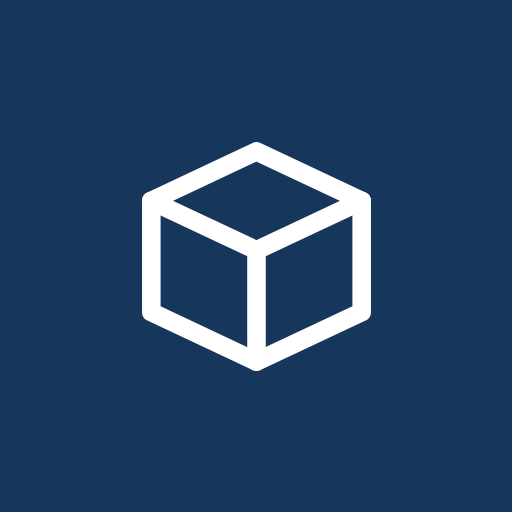
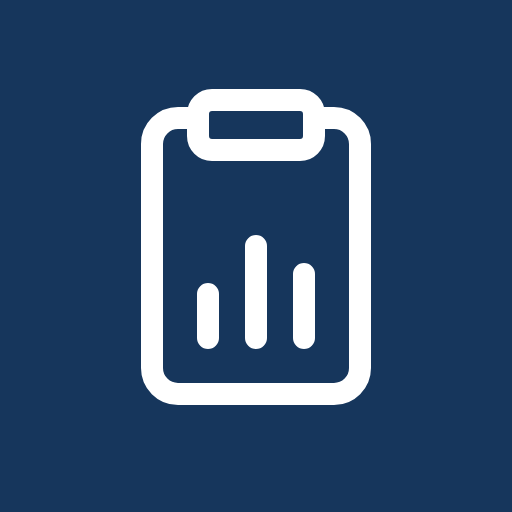
Ícone próprio de Medições no app instalado (#9)
O app instalado usava o cubo do Estoque e se confundia com ele na tela do
celular. Agora tem o dele: a prancheta do boletim com barras de medição,
traço branco no marinho da casa (public/icone.svg, e os PNGs gerados dele:
192, 512, maskable com a margem do Android, apple-icon e favicon).

O manifesto ganha id e atalhos (segurar o ícone abre o painel executivo,
o lançamento, a manutenção e o arquivo por cliente), e o cache do service
worker muda de nome para os aparelhos jogarem fora o ícone antigo.

CLAUDE.md: sai o trecho duplicado do vocabulário, que ainda falava da foto
acumulada e do "trazer o saldo".

Claude-Session: https://claude.ai/code/session_017SGf29hyquEKphKyogyBpG

Changed region(s): [[0.25, 0.1562, 0.75, 0.8125]]

diff --git a/app/manifest.ts b/app/manifest.ts
@@ -1,8 +1,11 @@
 import type { MetadataRoute } from "next";
 
-// O app instalado na tela inicial, como o Estoque e o Roteiros.
+// O app instalado na tela inicial, como o Estoque e o Roteiros — com ícone
+// próprio (a prancheta do boletim com as barras de medição), para não se
+// confundir com o cubo do Estoque na tela do celular.
 export default function manifest(): MetadataRoute.Manifest {
   return {
+    id: "/",
     name: "Medições e Contratos · Grupo Nova Opção",
     short_name: "Medições",
     description: "Boletins de medição, contratos e faturamento.",
@@ -18,6 +21,34 @@ export default function manifest(): MetadataRoute.Manifest {
       { src: "/icone-192.png", sizes: "192x192", type: "image/png", purpose: "any" },
       { src: "/icone-512.png", sizes: "512x512", type: "image/png", purpose: "any" },
       { src: "/icone-maskable-512.png", sizes: "512x512", type: "image/png", purpose: "maskable" },
+      { src: "/icone.svg", sizes: "any", type: "image/svg+xml", purpose: "any" },
+    ],
+    // Segurar o ícone abre direto as telas de todo dia.
+    shortcuts: [
+      {
+        name: "Painel executivo",
+        short_name: "Painel",
+        url: "/controle",
+        icons: [{ src: "/icone-192.png", sizes: "192x192", type: "image/png" }],
+      },
+      {
+        name: "Lançar medições",
+        short_name: "Lançar",
+        url: "/controle/lancar",
+        icons: [{ src: "/icone-192.png", sizes: "192x192", type: "image/png" }],
+      },
+      {
+        name: "Medições de manutenção",
+        short_name: "Manutenção",
+        url: "/",
+        icons: [{ src: "/icone-192.png", sizes: "192x192", type: "image/png" }],
+      },
+      {
+        name: "Arquivo por cliente",
+        short_name: "Arquivo",
+        url: "/clientes",
+        icons: [{ src: "/icone-192.png", sizes: "192x192", type: "image/png" }],
+      },
     ],
   };
 }

diff --git a/public/sw.js b/public/sw.js
@@ -1,15 +1,17 @@
-// Service worker do Estoque.
+// Service worker do Medições (veio do Estoque).
 //
-// DELIBERADAMENTE PEQUENO. O que este app mostra é saldo, fila e situação de
-// equipamento: dado que muda a cada minuto e que, servido velho, faz alguém
-// prometer uma máquina que já saiu. Então nada de HTML nem de resposta de API
-// entra em cache — só o que é imutável.
+// DELIBERADAMENTE PEQUENO. O que este app mostra é medido, faturado e saldo:
+// número que muda a cada lançamento e que, servido velho, faz alguém cobrar o
+// que já foi pago. Então nada de HTML nem de resposta de API entra em cache —
+// só o que é imutável.
 //
 // O ganho real está aí: os arquivos do Next em /_next/static/ têm hash no
 // nome, então nunca mudam de conteúdo. Guardá-los tira do caminho toda a
 // baixa de JS e CSS na segunda visita, que é a parte pesada de abrir o app.
 
-const CACHE = "estoque-estatico-v1";
+// v2: o ícone próprio de Medições. Trocar o nome joga fora o cache anterior,
+// que ainda guardava o cubo do Estoque.
+const CACHE = "medicoes-estatico-v2";
 
 self.addEventListener("install", (e) => {
   // Assume o controle já nesta carga, sem esperar a aba antiga fechar.

diff --git a/CLAUDE.md b/CLAUDE.md
@@ -80,7 +80,8 @@ desfaz isso logo depois de criar.
   papel e para o histórico.
 - **controle**: a planilha "CONTROLE DE MEDIÇÕES" — manutenção, locação e
   indenização (extravios) de um cliente, por **região**, num **período**. Não é
-  o boletim: é o contrato inteiro, lançado à mão ou colado da aba do mês.
+  o boletim: é o contrato inteiro, lançado no sistema ou importado da aba do
+  mês enquanto a planilha existir.
 - **período**: um mês. Guarda o medido e o faturado DO MÊS; o saldo anterior
   não se digita nem se grava — sai da soma dos meses de antes
   (`controle_posicao`, 0006). Agosto: medido 100, faturado 30 → saldo 70.
@@ -93,31 +94,13 @@ desfaz isso logo depois de criar.
   quadro — medido do mês = medido da planilha − saldo anterior do sistema, e o
   saldo que fica é o da planilha. Não salva sozinho; saldo zerado sem faturar
   aparece como aviso para conferir.
-- **Dois lançamentos, dois times.** "Lançar medições de manutenção" (`/`) é do
-  **orçamento**: o boletim, OM por OM, colado do Sisloc. "Lançar medições"
-  (`/controle/lancar`) é do **faturamento**: o controle por região, conforme o
-  faturamento anda, e é o que o painel mostra. Um não alimenta o outro sozinho.
-- **arquivo por cliente** (`/clientes`): a ficha de cada cliente, com a
-  manutenção (boletins por base, cada um com o seu papel) e o faturamento (as
-  bases e os meses do controle, cada um com o seu relatório), e o extrato de
-  manutenção do cliente (`/clientes/extrato`, por mês). Tudo na tela ou em
-  PDF — planilha não, que é dela que a casa está saindo. O nome do boletim vem do Sisloc e o do
-  controle é digitado: quando não batem, são duas fichas — de propósito.
-- **painel executivo** (`/controle`): a aba "Por cliente" e a aba "Todos os
-  clientes", onde cada um entra com a SUA posição mais recente.
-- **padrão das telas**: cartões em quadro e painéis que recolhem
-  (`CartaoDoQuadro`, `Painel`), não tabela linha a linha. Tabela fica para o
-  papel e para o histórico.
-- **controle**: a planilha "CONTROLE DE MEDIÇÕES" — manutenção, locação e
-  indenização (extravios) de um cliente, por **região**, num **período**. Não é
-  o boletim: é o contrato inteiro, lançado à mão ou colado da aba do mês.
-- **período**: a FOTO do saldo em aberto num mês, acumulada. **Não se somam
-  períodos**: a posição atual é a foto mais recente.
-- **o saldo passa adiante**: o saldo de cada base e categoria num mês entra
-  como MEDIDO do mês seguinte, e o faturado começa vazio. Medido do mês =
-  saldo que veio + o que se mediu de novo. "Trazer o saldo" faz isso — copiar
-  o faturado do mês anterior seria cobrar a mesma nota duas vezes.
 - **colagem**: a lista do Sisloc copiada e colada, com a linha de títulos.
+
+## Aparência
+- App instalável (PWA): `app/manifest.ts`, `public/sw.js` e o convite de
+  `components/instalar.tsx`. O ícone é próprio — a prancheta do boletim com
+  barras de medição, traço branco no marinho da casa (`public/icone.svg`, e os
+  PNGs gerados dele). Ícone novo pede subir o nome do cache no `sw.js`.
 
 ## Estado
 - [~] Fase 1 — a base: schema `medicoes`, perfis e papéis, boletim de medição
@@ -130,7 +113,8 @@ desfaz isso logo depois de criar.
       indenização por região e período, append-only, com o saldo em view. O
       histórico da planilha (abr/2025 a set/2026, 305 células) entra por
       `supabase/scripts/semear-controle-aguas-do-rio.sql`, e os totais batem
-      com o RESUMO EXECUTIVO. Falta aplicar no Supabase e rodar um mês.
+      com o RESUMO EXECUTIVO. `0004` a `0006` e a semente **aplicadas**. Falta
+      rodar um mês lançando no sistema.
 - [~] Fase 3 — o painel do controle (`/controle`): indicadores, as três
       categorias, evolução, saldo por região, relatório por base para o
       WhatsApp e o histórico — ao vivo, relendo a cada minuto, com a variação
